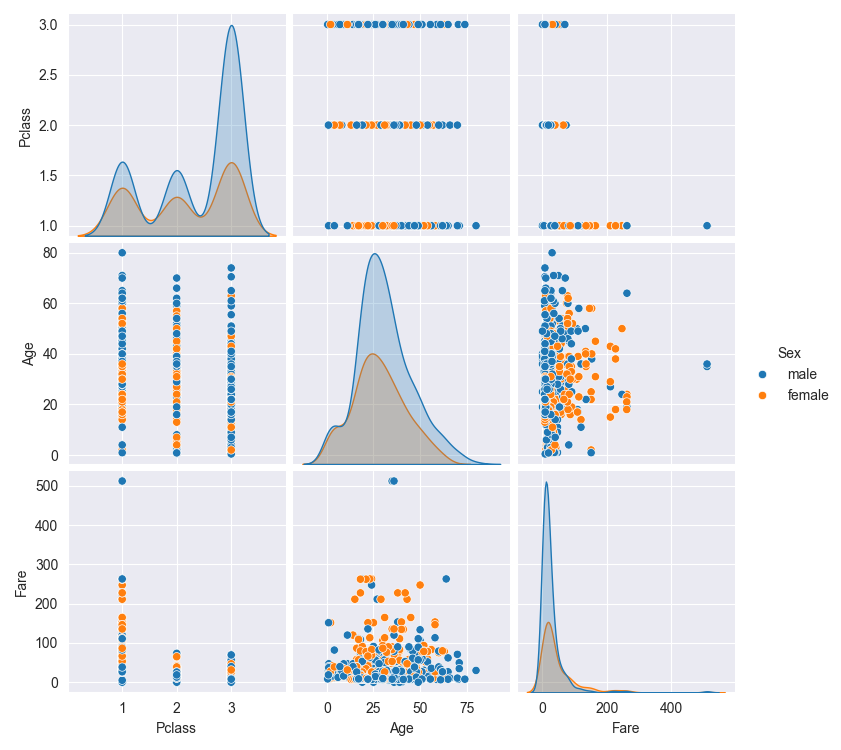
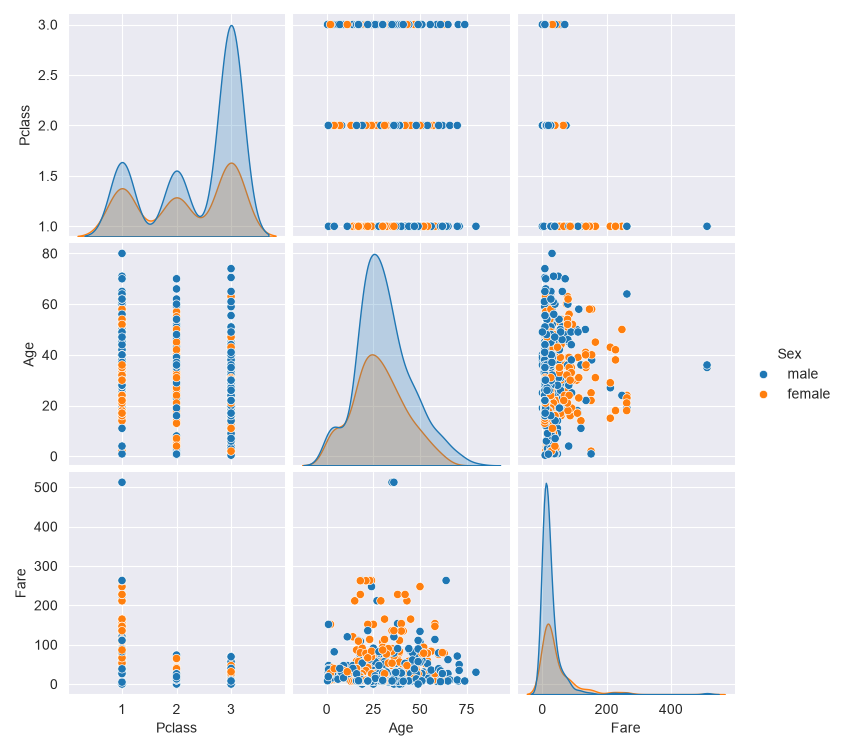
try to avoid noop changes in media/3-05-exo-pairplot.png

diff --git a/notebooks/.teacher/3-05-seaborn-intro-corrige-nb.md b/notebooks/.teacher/3-05-seaborn-intro-corrige-nb.md
@@ -334,7 +334,18 @@ sns.pairplot(
     diag_kind='kde',
     hue='Sex',
 );
-plt.savefig("media/3-05-exo-pairplot.png")
+
+# on évite de réécrire l'image à chaque exécution
+# - pas de métadonnée 'Software' qui change avec la version de matplotlib
+# - et on n'écrit le fichier que si le contenu a vraiment changé
+import io
+from pathlib import Path
+
+buffer = io.BytesIO()
+plt.savefig(buffer, format='png', metadata={'Software': None})
+png = Path("media/3-05-exo-pairplot.png")
+if not png.exists() or png.read_bytes() != buffer.getvalue():
+    png.write_bytes(buffer.getvalue())
 ```
 
 ```{code-cell} ipython3
